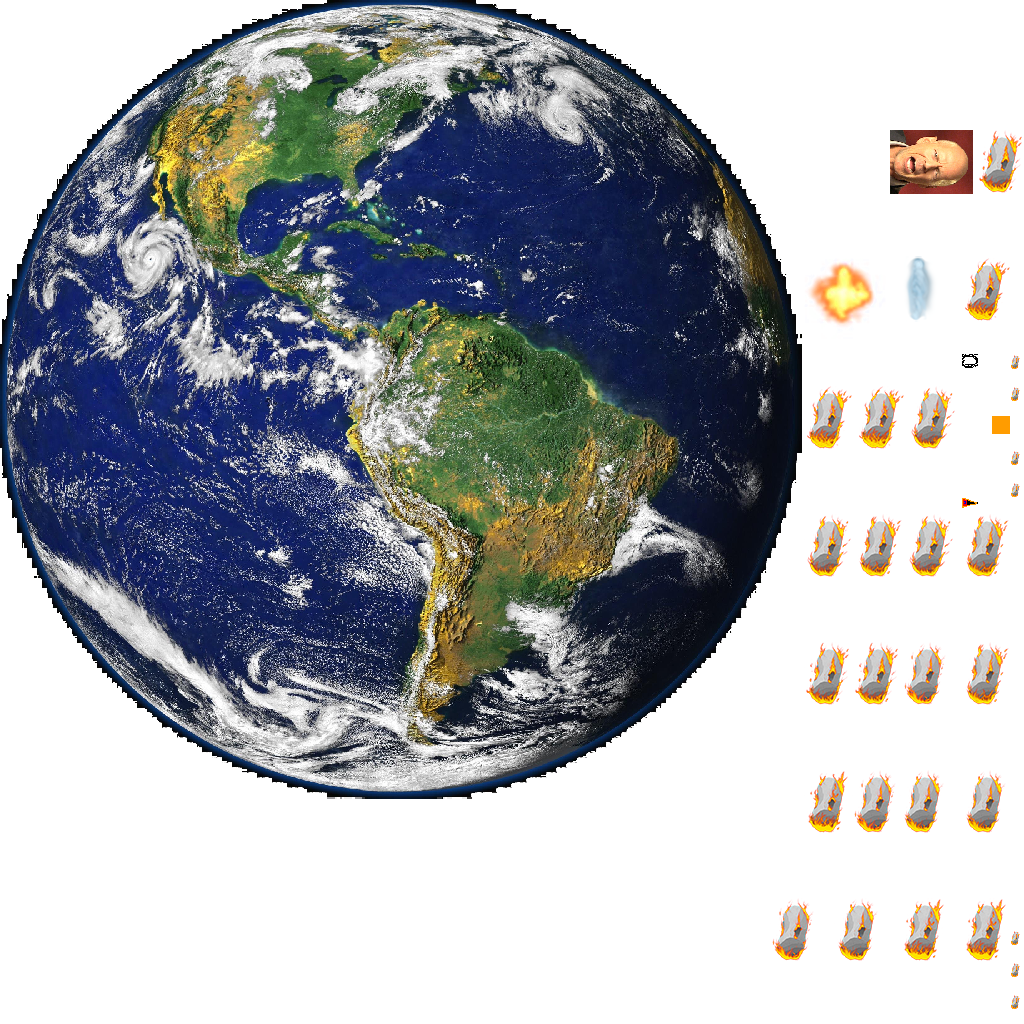
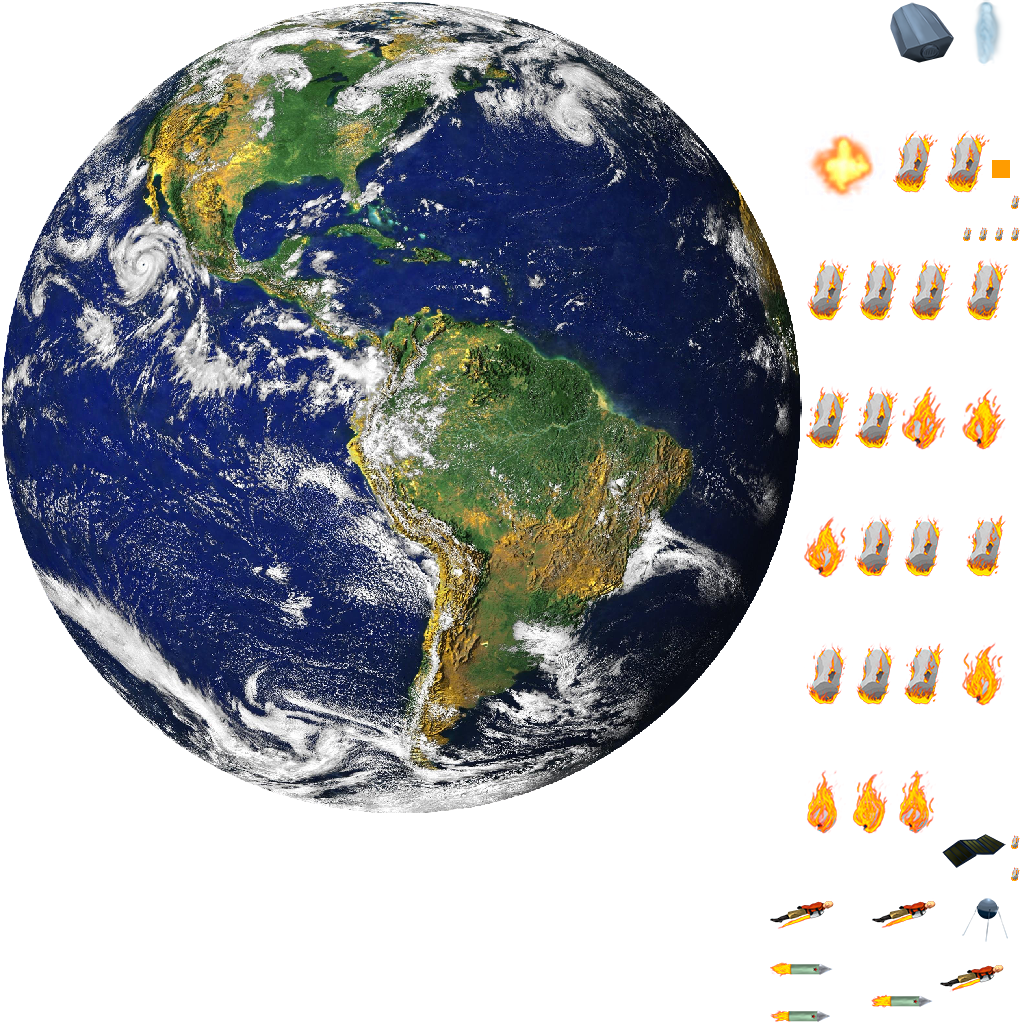
Noddegamra v.0.9

diff --git a/games/noddegamra/scripts/c3runtime.js b/games/noddegamra/scripts/c3runtime.js
@@ -642,6 +642,8 @@ self.C3_GetObjectRefTable = function () {
 		C3.Plugins.Sprite.Acts.SetPos,
 		C3.Behaviors.Bullet.Acts.SetSpeed,
 		C3.Behaviors.Bullet.Exps.Speed,
+		C3.Plugins.Sprite.Acts.SetAnimFrame,
+		C3.Plugins.Sprite.Acts.SetAngle,
 		C3.Plugins.System.Cnds.CompareVar,
 		C3.Behaviors.Timer.Acts.StartTimer,
 		C3.Plugins.Sprite.Cnds.CompareY,
@@ -783,17 +785,13 @@ return () => ((Math.round((v0.GetValue() - v1.GetValue()))).toString() + " kilom
 },
 p => {
 const v0 = p._GetNode(0).GetVar();
-return () => v0.GetValue();
-},
-p => {
-const v0 = p._GetNode(0).GetVar();
 return () => (1 * v0.GetValue());
 },
 () => 0.1,
 () => "Появление и поведение мусора",
 p => {
 const f0 = p._GetNode(0).GetBoundMethod();
-return () => f0(0.5, 2);
+return () => f0(0.5, 1.5);
 },
 p => {
 const f0 = p._GetNode(0).GetBoundMethod();
@@ -807,6 +805,14 @@ p => {
 const n0 = p._GetNode(0);
 const v1 = p._GetNode(1).GetVar();
 return () => (n0.ExpBehavior() * v1.GetValue());
+},
+p => {
+const f0 = p._GetNode(0).GetBoundMethod();
+return () => f0(0, 2);
+},
+p => {
+const f0 = p._GetNode(0).GetBoundMethod();
+return () => f0(0, 360);
 },
 () => 1.5,
 () => "Появление и поведение ракеты",
@@ -895,6 +901,10 @@ return () => f0(670, 700);
 p => {
 const n0 = p._GetNode(0);
 return () => (n0.ExpObject() - 5);
+},
+p => {
+const v0 = p._GetNode(0).GetVar();
+return () => v0.GetValue();
 },
 () => "Count Lives",
 () => 6,
